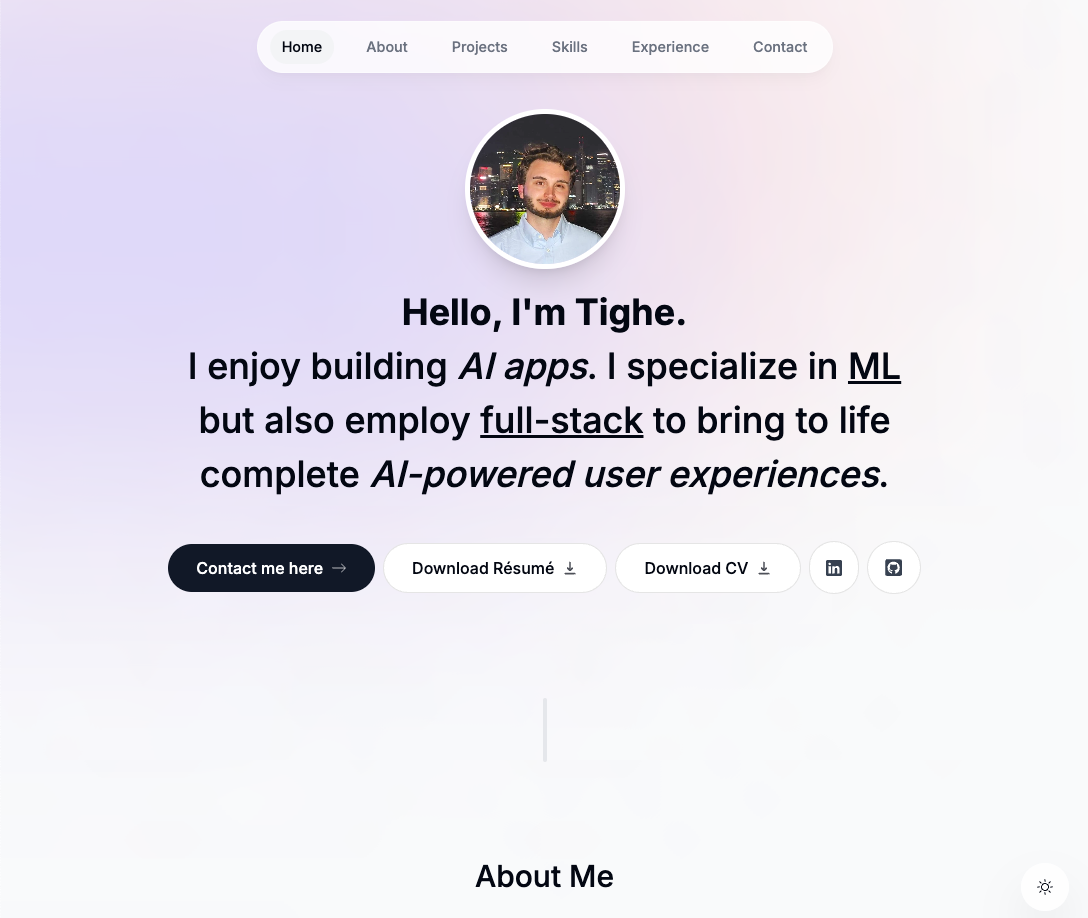
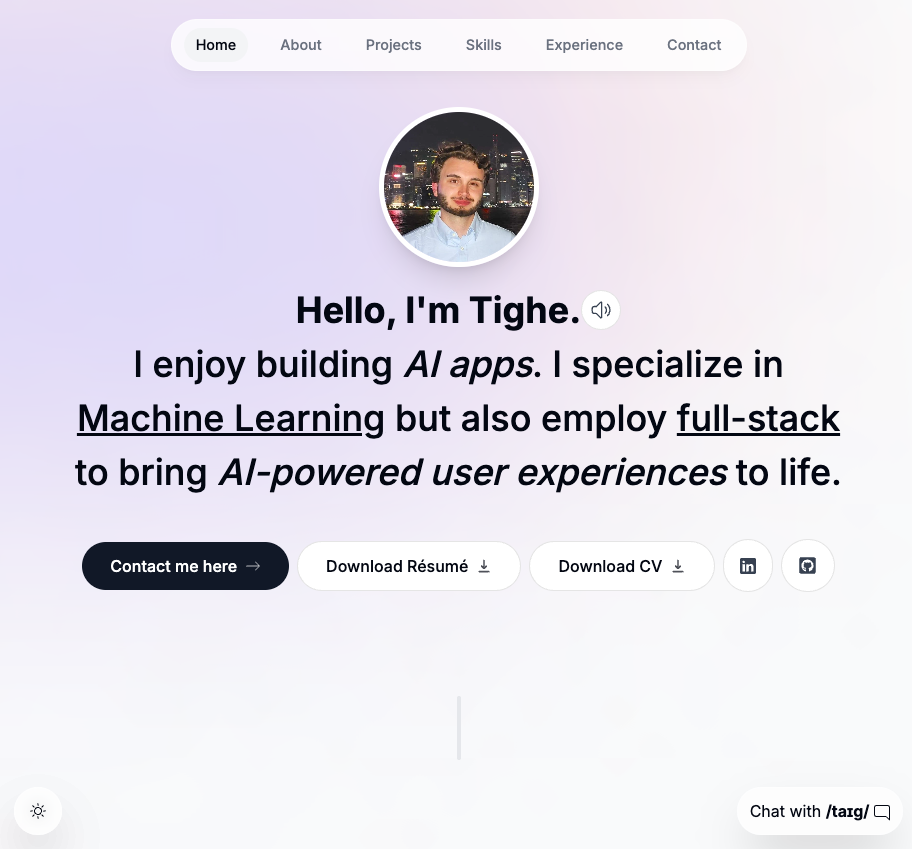
added whmlah project, updated website thumbnail

diff --git a/lib/clientData.ts b/lib/clientData.ts
@@ -4,6 +4,7 @@ import { LuBrainCircuit } from "react-icons/lu";
 import { LuGraduationCap } from "react-icons/lu";
 import portfolioImg from "@/public/portfoliowebsite.png";
 import ispytickersImg from "@/public/ispytickers.png";
+import whmlahImg from "@/public/whmlah.png";
 
 export const links = [
   {
@@ -63,10 +64,18 @@ export const projectsData = [
   {
     title: "Portfolio Website (you are here)",
     description:
-      "I learned Next.js, Tailwind, and Framer motion through building this portfolio website.",
-    tags: ["React", "Next.js", "Typescript", "Tailwind", "Framer"],
+      "I learned Next.js, Tailwind, Framer Motion, and the Vercel AI SDK through building this portfolio website.",
+    tags: ["React", "Next.js", "Typescript", "Tailwind", "Framer", "Groq"],
     imageUrl: portfolioImg,
     href: "https://www.tigheclough.com",
+  },
+  {
+    title: "We Have ML at Home",
+    description:
+      "Where I write ML algos from scratch, highest level of abstraction is numpy, test models with synthetic data sets.",
+    tags: ["Python", "numpy"],
+    imageUrl: whmlahImg,
+    href: "https://github.com/thclough/we_have_ml_at_home",
   },
   {
     title: "I Spy Tickers",

diff --git a/components/Footer.tsx b/components/Footer.tsx
@@ -9,8 +9,8 @@ export default function Footer() {
       </small>
       <p className="text-xs">
         <span>About this website:</span> built with React & Next.js (App Router
-        & Server Actions), TypeScript, Tailwind CSS, Framer Motion, React Email
-        & Resend - Vercel hosting.
+        & Server Actions), TypeScript, Tailwind CSS, Framer Motion, Vercel AI
+        SDK, React Email & Resend - Vercel hosting.
       </p>
     </footer>
   );
